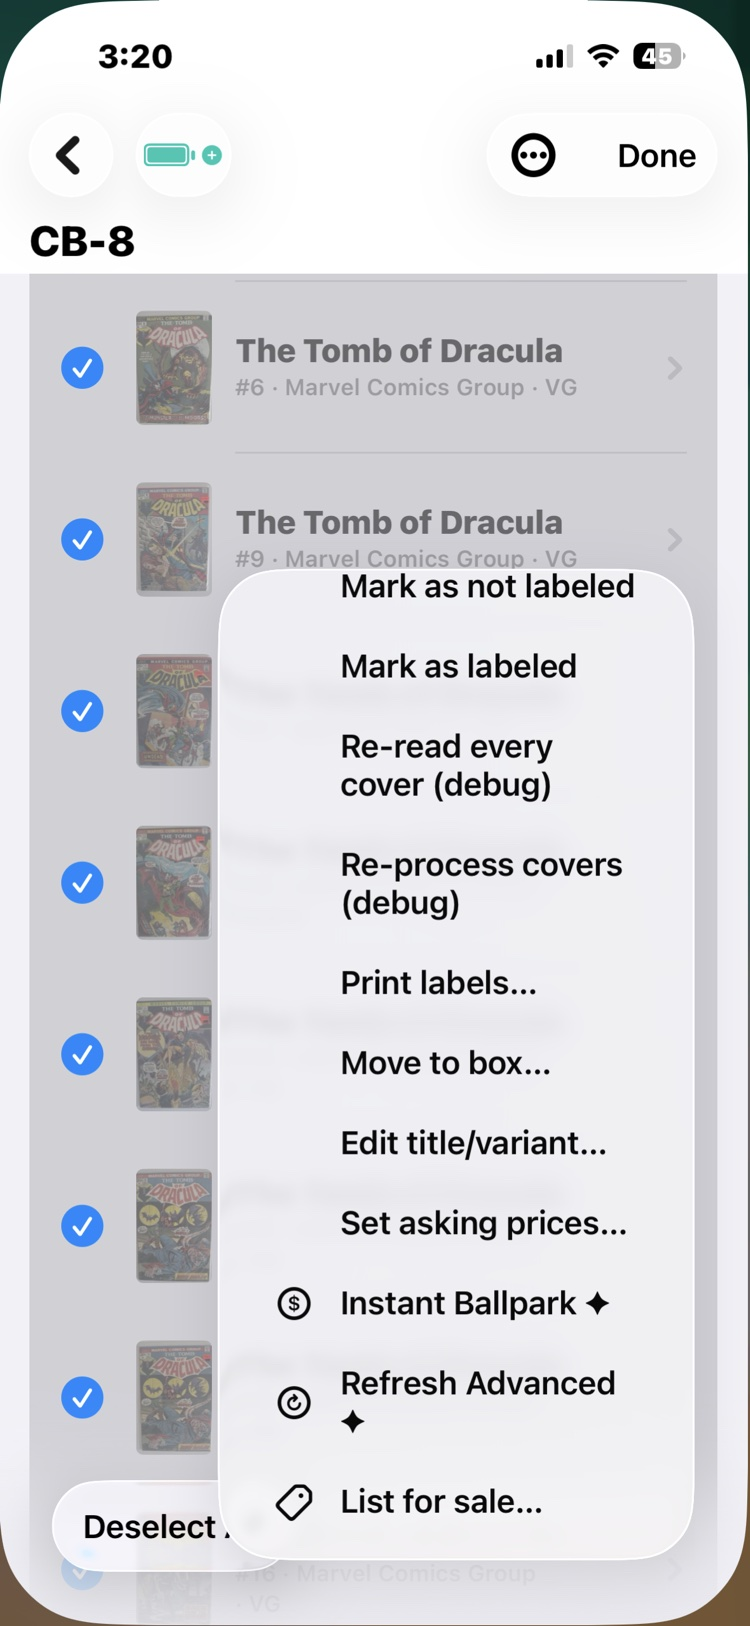
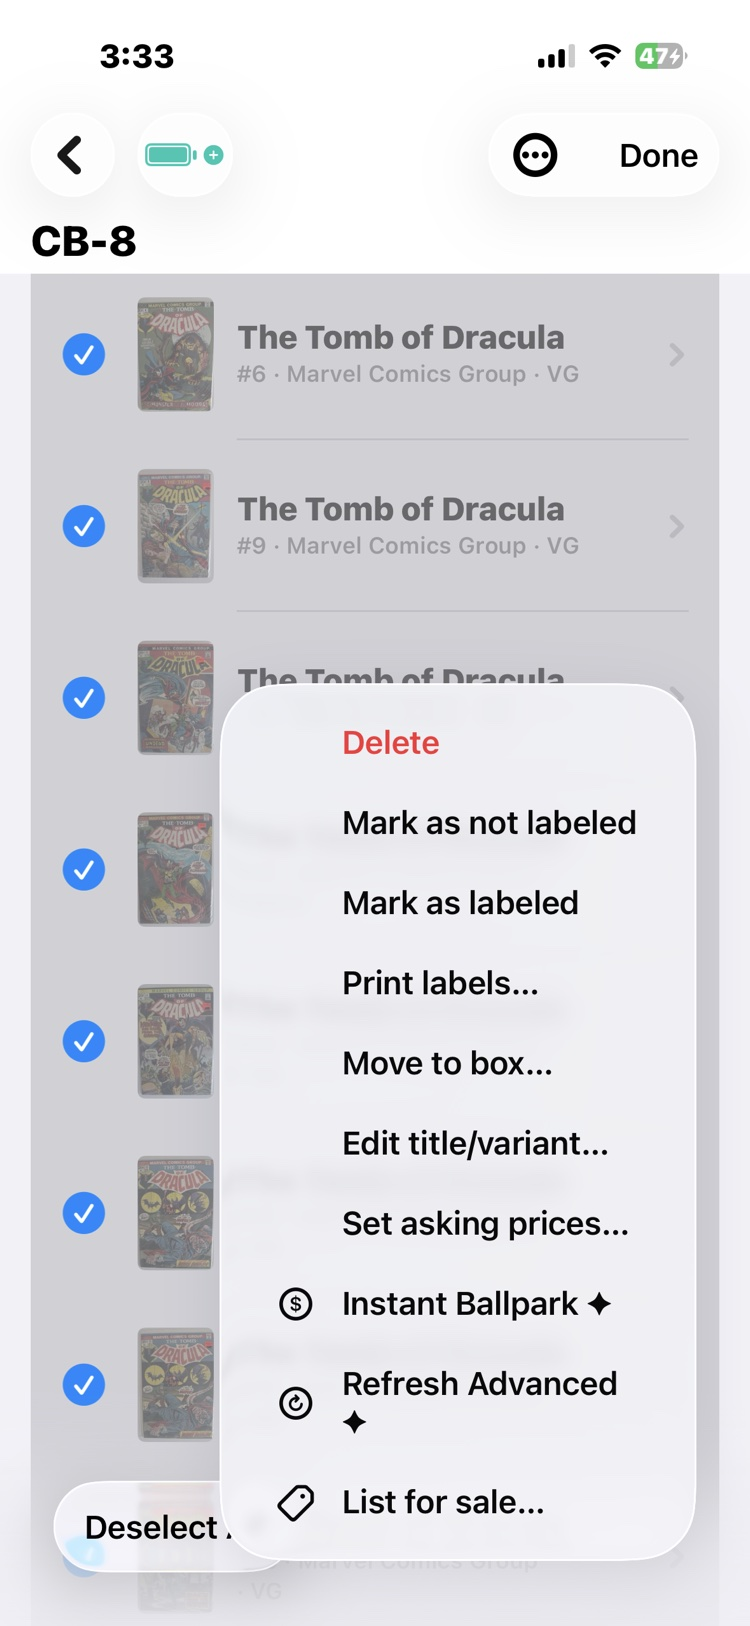
The ballpark menu loses its debug rows

diff --git a/README.md b/README.md
@@ -121,7 +121,7 @@ delete the raw. One copy per picture.
 | `after-the-show-2.jpg` (was -3) | after-the-show scenario, accuracy how-to | **Done 2026-09-07**: CB-2, 115 confirmed, 3 not seen. The old mid-scan -2 is deleted; the set is now 1 menu, 2 result, 3 resolve, 4 menu count, 5 list | |
 | `after-the-show-5.jpg` | after-the-show scenario | **Done 2026-09-07** | |
 | `after-the-show-3.jpg` (was -6) | after-the-show scenario, accuracy how-to | **Done 2026-09-07** | |
-| `ballpark-run-1.jpg` | ballpark how-to | **Done 2026-09-07**: the whole loop reshot as -1 to -6 on CB-8 (menu frame -2 shows two debug rows) | |
+| `ballpark-run-1.jpg` | ballpark how-to | **Done 2026-09-07**: the whole loop reshot as -1 to -6 on CB-8; -2 retaken without the debug rows | |
 | `barcoding-1.jpg` | barcoding how-to | "WEREWOLF BY NIGHT" rows behind the menu | Box menu open with Print box labels and Mark box as labeled |
 | `backup-reminder.jpg` | sharing how-to | "WEREWOLF BY NIGHT" above "Werewolf By Night", and a 50,000-book test library | Collections screen with the Backup due banner; a real collection behind it |
 | `convention-table-2.jpg` | convention-table scenario | Kiosk cards read "THE TOMB OF DRACULA", publishers "MARVEL COMICS GROUP" and "MARVEL" | Desktop: re-export the kiosk (it also gained label QR codes on 2026-08-29), search "Tomb", screenshot |
